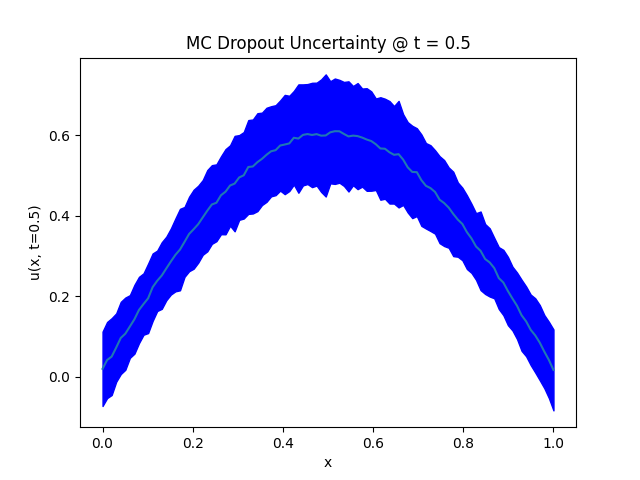
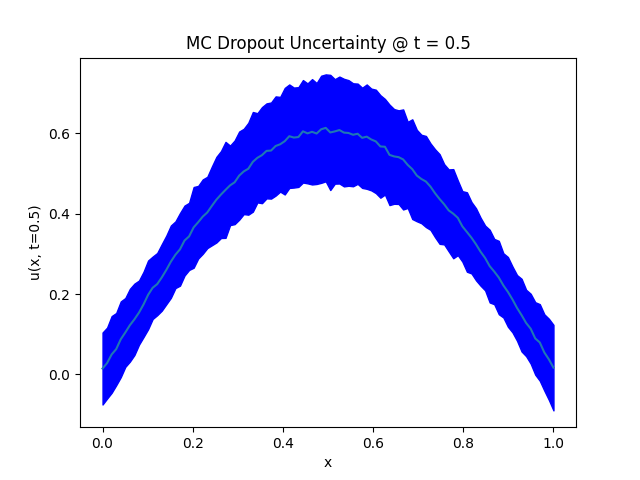
Phase 1 completed, benchmark.json, speedup ratio

diff --git a/validate.py b/validate.py
@@ -3,7 +3,8 @@ import torch
 import pinn
 from solvers import heat_fd
 import matplotlib.pyplot as plt
-
+import time
+import json
 
 x_fd = np.linspace(0, 1, 100)
 x_tensor = torch.reshape(torch.from_numpy(x_fd), (100, 1)).float()
@@ -14,12 +15,31 @@ t_1 = torch.full((100,1), 1).float()
 model = pinn.PINN()
 model.load_state_dict(torch.load("models/heat_pinn.pth"))
 
-x_out, t_out, u_out = heat_fd.solve_heat_fd(0.1, 100, 2500)
+start_time_fd = time.perf_counter()
+for i in range(10):
+    x_out, t_out, u_out = heat_fd.solve_heat_fd(0.1, 100, 2500)
+end_time_fd = time.perf_counter()
+elapsed_time_fd = end_time_fd - start_time_fd
+average_time_fd = elapsed_time_fd/10
+# Average run time of FD (FD is a meaningfully longer process - 2500 steps compared to a singular PINN forward pass)
+
 # u_out is the FD solver temperature output
 
 model.eval()
 # switches the network from training mode to evaluation (inference) mode
 # in training mode the model changes weights and biases but in eval mode it doesnt, it works with the saved weights and biases
+
+start_time_PINN = time.perf_counter()
+for i in range(100):
+    model(x_tensor, t_point1)
+end_time_PINN = time.perf_counter()
+
+elapsed_time_PINN = end_time_PINN - start_time_PINN
+average_time_PINN = elapsed_time_PINN/100
+# Timing the PINN run
+
+speedup_ratio = average_time_fd/average_time_PINN
+print(speedup_ratio)
 
 # model.eval() switches dropout off while model.train() has it on. We need it on in the former to get different predictions each forward pass
 
@@ -30,6 +50,9 @@ prediction3 = model(x_tensor, t_1)
 # prediction is basically a forward pass of model given the two inputs
 # prediction is a (100, 1) tensor of temperature at 100 positions at a specific times (0.1, 0.5 and 1)
 
+
+
+# COMPARING - PINN to FD and exact at t = 0.1, 0.5, and 1
 # ------- t = 0.1s ------------
 print(prediction1)
 
@@ -43,6 +66,12 @@ u_fd_t01 = u_out[int(0.1/t_out[1]), :]
 rel_l2_point1 = np.sqrt(np.mean((u_pinn - u_fd_t01)**2))/np.sqrt(np.mean(u_fd_t01**2))
 # this is the relative L2 formula: ||| u_pinn - u_fd ||/ || u_fd ||
 print(rel_l2_point1)
+
+u_exact = heat_fd.u_exact(x_fd, 0.1)
+
+rel_pinn_exact_point1 = np.sqrt(np.mean((u_pinn - u_exact)**2))/np.sqrt(np.mean(u_exact**2))
+print(rel_pinn_exact_point1)
+
 
 plt.legend(["FD", "PINN"])
 # plt.savefig("figures/fd_pinn_comparision_tpoint1.png")
@@ -63,6 +92,12 @@ rel_l2_point5 = np.sqrt(np.mean((u_pinn - u_fd_t05)**2))/np.sqrt(np.mean(u_fd_t0
 # this is the relative L2 formula: ||| u_pinn - u_fd ||/ || u_fd ||
 print(rel_l2_point5)
 
+u_exact = heat_fd.u_exact(x_fd, 0.5)
+
+rel_pinn_exact_point5 = np.sqrt(np.mean((u_pinn - u_exact)**2))/np.sqrt(np.mean(u_exact**2))
+print(rel_pinn_exact_point5)
+
+
 plt.legend(["FD", "PINN"])
 # plt.savefig("figures/fd_pinn_comparision_tpoint5.png")
 plt.show()
@@ -81,15 +116,26 @@ rel_l2_1 = np.sqrt(np.mean((u_pinn - u_fd_t1)**2))/np.sqrt(np.mean(u_fd_t1**2))
 # this is the relative L2 formula: ||| u_pinn - u_fd ||/ || u_fd ||
 print(rel_l2_1)
 
+u_exact = heat_fd.u_exact(x_fd, 1)
+
+rel_pinn_exact_one = np.sqrt(np.mean((u_pinn - u_exact)**2))/np.sqrt(np.mean(u_exact**2))
+print(rel_pinn_exact_one)
+
+
 plt.legend(["FD", "PINN"])
 # plt.savefig("figures/fd_pinn_comparision_t1.png")
 plt.show()
 
+results_dict = {
+    "rel_l2_vs_fd": { "t_0.1": float(rel_l2_point1), "t_0.5": float(rel_l2_point5), "t_1.0": float(rel_l2_1)},
+    "rel_l2_vs_exact": { "t_0.1": float(rel_pinn_exact_point1), "t_0.5": float(rel_pinn_exact_point5), "t_1.0": float(rel_pinn_exact_one)},
+    "speedup_pinn_vs_fd": speedup_ratio,
+    "training_time_seconds": 124.19095739995828
+}
 
-# 2 POINTS TO NOTE
+with open("benchmarks/benchmark_phase1.json", "w") as f:
+    json.dump(results_dict, f, indent=4)
+
+# NOTE
 # the simulation runs from 0 to 1. 0.1, 0.5, and 1 are not seconds they represent how far along teh simulation are we
 # 1 represetns end of simulation
-
-# Somethign to note:
-# error goes up from 0.06% (0.1) to 0.12% (0.5) to 0.23% (1), why???
-# because we are working with relative error and as the simulation progresses the temperature levels out and the absolute error may be small but relatively seems large and therefore we see this interesting result

diff --git a/pinn.py b/pinn.py
@@ -3,6 +3,7 @@ import torch.nn as nn
 import torch.optim as optim
 import matplotlib.pyplot as plt
 import numpy as np
+import time
 
 class PINN(nn.Module):
     def __init__(self):
@@ -109,6 +110,8 @@ def mc_dropout_predict(model, x, t, n_passes):
     return mean, std
 
 if __name__ == "__main__":
+    torch.manual_seed(10)
+    start_time = time.perf_counter()
     model = PINN()
     sample_t = torch.tensor([[2.0],[0.4],[0.5]], requires_grad=True)
     sample_x = torch.tensor([[1.2],[3.2],[5.0]], requires_grad=True)
@@ -160,10 +163,15 @@ if __name__ == "__main__":
 
     torch.save(model.state_dict(), "models/heat_pinn.pth")
 
+    end_time = time.perf_counter()
+    time_elapsed = end_time - start_time
+
     x_new = torch.linspace(0, 1, 100).reshape(100, 1)
     t_new = torch.full((100, 1), 0.5)
     # we need both to be the same size that being 100 rows and 1 column
     mean, std = mc_dropout_predict(model, x_new, t_new, 200)
+
+    print(time_elapsed)
 
     plt.plot(x_new.numpy().flatten(), mean.numpy().flatten())
     plt.fill_between(x_new.numpy().flatten(), (mean - 2*std).numpy().flatten(), (mean + 2*std).numpy().flatten(), color="blue")

diff --git a/solvers/heat_fd.py b/solvers/heat_fd.py
@@ -8,7 +8,7 @@ r = 0.4
 alpha = 0.1
 
 def u_exact(x, t):
-        return np.sin(np.pi*x)*np.e**(-1*alpha*(np.pi)**2*t)
+    return np.sin(np.pi*x)*np.e**(-1*alpha*(np.pi)**2*t)
 
 # x in u_exact is the spatial grid
 # while it is x axis in plt.plot --> 2 jobs